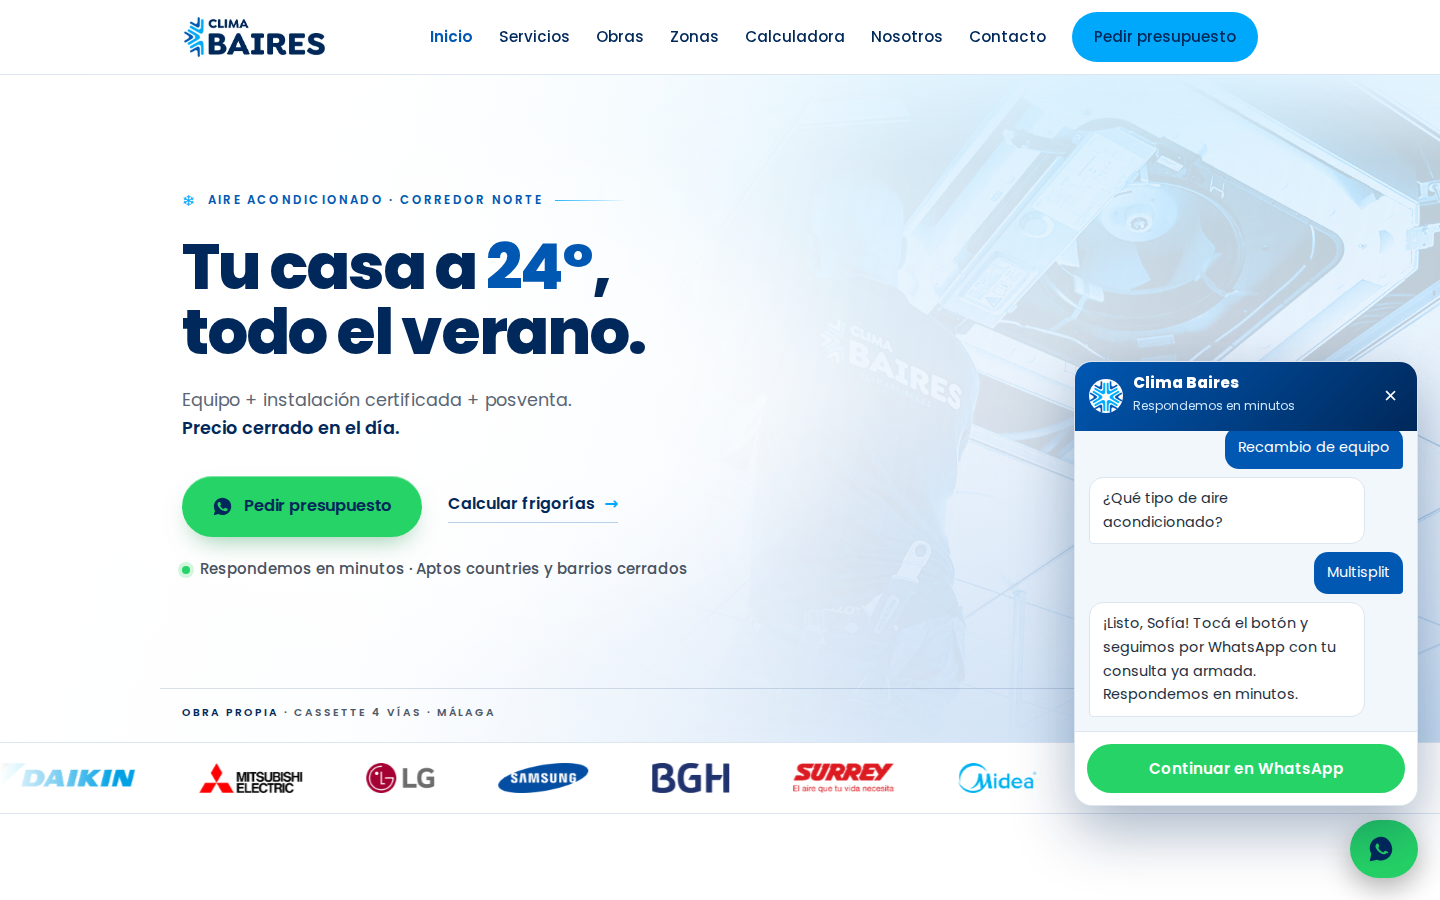
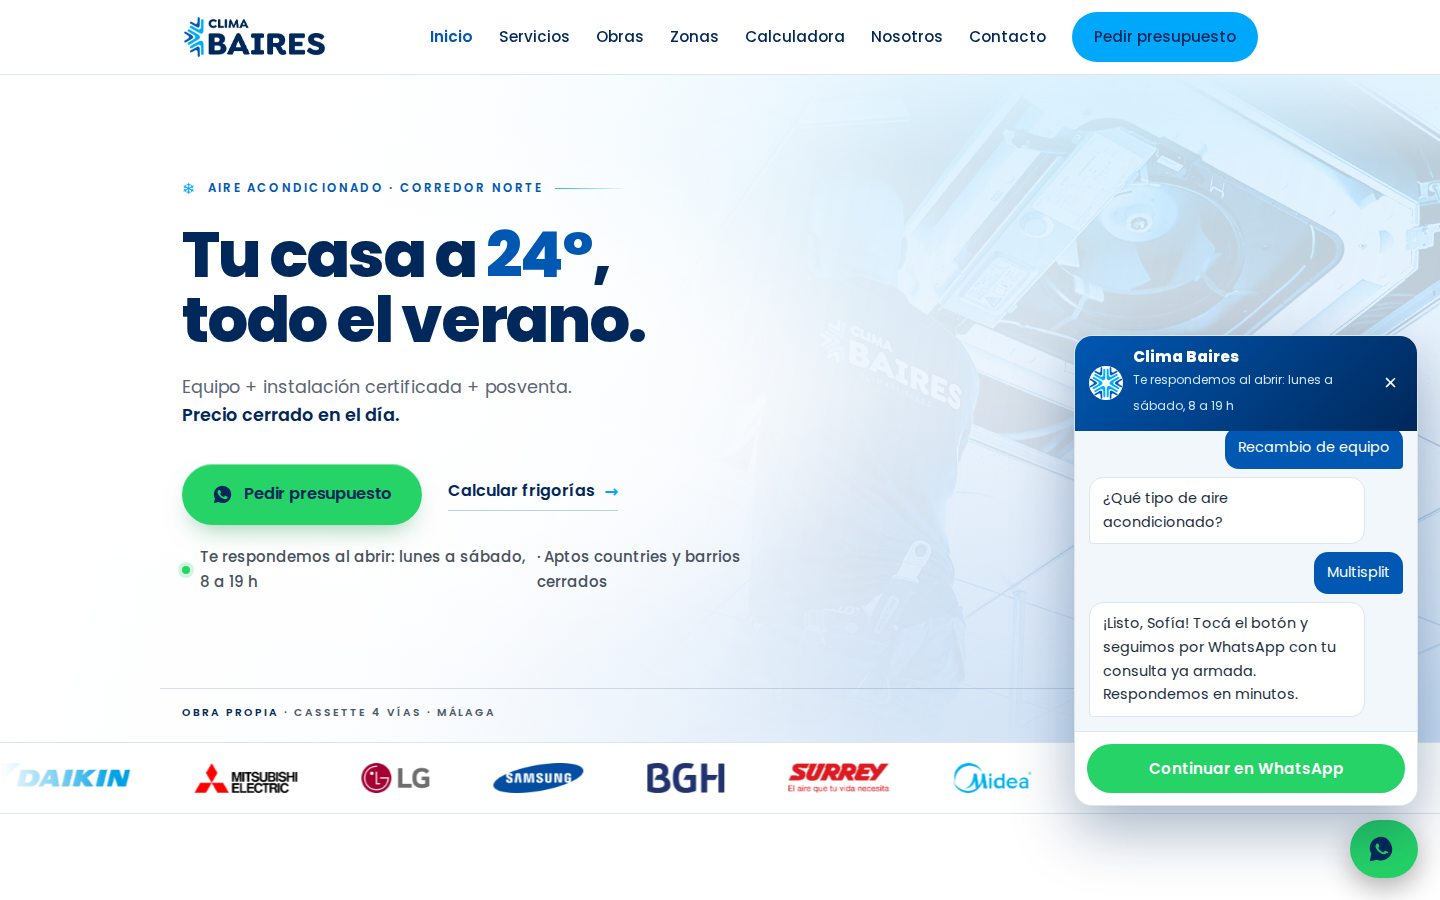
Dos promesas que el sitio no podía cumplir
- «Respondemos en minutos» se mostraba las 24 horas, incluso un domingo a las 3
  de la mañana, cuando se atiende de lunes a sábado de 8 a 19. Fuera de horario
  pasa a «Te respondemos al abrir: lunes a sábado, 8 a 19 h». Verificado con el
  reloj del navegador fijado en tres momentos distintos
- La home mostraba las fotos bajo «Trabajo real · Últimas obras» sin aclarar en
  ningún lado visible que son de la casa matriz: el origen sólo estaba en el alt
  de cada imagen. Ahora lo dice la bajada de la sección

Detectado por las auditorías legal y de contenido.

Claude-Session: https://claude.ai/code/session_01UMXhTey5vCobBk23QC6J6a

diff --git a/web/index.html b/web/index.html
@@ -52,7 +52,7 @@
         </a>
         <a class="hero-cta2" href="calculadora-frigorias.html">Calcular frigorías <span>→</span></a>
       </div>
-      <p class="hero-nota"><span class="hero-pulso" aria-hidden="true"></span>Respondemos en minutos · Aptos countries y barrios cerrados</p>
+      <p class="hero-nota"><span class="hero-pulso" aria-hidden="true"></span><span data-respuesta>Respondemos en minutos</span> · Aptos countries y barrios cerrados</p>
     </div>
   </div>
 
@@ -151,7 +151,8 @@
 
 <section class="seccion alterna" id="obras">
   <div class="contenedor">
-    <div class="centrado"><span class="kicker">Trabajo real</span><h2>Últimas obras</h2></div>
+    <div class="centrado"><span class="kicker">Trabajo real</span><h2>Últimas obras</h2>
+    <p class="intro">Obras de nuestro equipo en la casa matriz de Málaga. Las primeras del corredor norte se suman apenas las hagamos.</p></div>
   </div>
   <div class="obras-carrusel-marco">
     <button class="car-flecha car-prev" type="button" aria-label="Anteriores">‹</button>
@@ -231,7 +232,7 @@
 <div class="chat" id="chat" hidden role="dialog" aria-label="Asistente de Clima Baires">
   <div class="chat-cabecera">
     <img src="assets/img/avatar-chat.png" alt="" width="34" height="34" loading="lazy">
-    <div><strong>Clima Baires</strong><span>Respondemos en minutos</span></div>
+    <div><strong>Clima Baires</strong><span data-respuesta>Respondemos en minutos</span></div>
     <button class="chat-cerrar" type="button" aria-label="Cerrar chat">×</button>
   </div>
   <div class="chat-mensajes" id="chat-mensajes" aria-live="polite"></div>

diff --git a/web/assets/js/main.js b/web/assets/js/main.js
@@ -116,6 +116,16 @@ document.addEventListener('DOMContentLoaded', () => {
   const nav = document.querySelector('.nav');
   if (btn && nav) btn.addEventListener('click', () => nav.classList.toggle('abierta'));
 
+  // La promesa de respuesta se ajusta al horario real (lun a sáb, 8 a 19 h):
+  // prometer «en minutos» un domingo a la madrugada es una promesa que no se cumple
+  const ahora = new Date();
+  const enHorario = ahora.getDay() !== 0 && ahora.getHours() >= 8 && ahora.getHours() < 19;
+  if (!enHorario) {
+    document.querySelectorAll('[data-respuesta]').forEach((el) => {
+      el.textContent = 'Te respondemos al abrir: lunes a sábado, 8 a 19 h';
+    });
+  }
+
   // Año en el pie
   document.querySelectorAll('[data-anio]').forEach((el) => { el.textContent = new Date().getFullYear(); });
 

diff --git a/web/zonas/nordelta.html b/web/zonas/nordelta.html
@@ -155,7 +155,7 @@
 <div class="chat" id="chat" hidden role="dialog" aria-label="Asistente de Clima Baires">
   <div class="chat-cabecera">
     <img src="../assets/img/avatar-chat.png" alt="" width="34" height="34" loading="lazy">
-    <div><strong>Clima Baires</strong><span>Respondemos en minutos</span></div>
+    <div><strong>Clima Baires</strong><span data-respuesta>Respondemos en minutos</span></div>
     <button class="chat-cerrar" type="button" aria-label="Cerrar chat">×</button>
   </div>
   <div class="chat-mensajes" id="chat-mensajes" aria-live="polite"></div>

diff --git a/web/zonas/nunez.html b/web/zonas/nunez.html
@@ -155,7 +155,7 @@
 <div class="chat" id="chat" hidden role="dialog" aria-label="Asistente de Clima Baires">
   <div class="chat-cabecera">
     <img src="../assets/img/avatar-chat.png" alt="" width="34" height="34" loading="lazy">
-    <div><strong>Clima Baires</strong><span>Respondemos en minutos</span></div>
+    <div><strong>Clima Baires</strong><span data-respuesta>Respondemos en minutos</span></div>
     <button class="chat-cerrar" type="button" aria-label="Cerrar chat">×</button>
   </div>
   <div class="chat-mensajes" id="chat-mensajes" aria-live="polite"></div>

diff --git a/web/zonas/pilar.html b/web/zonas/pilar.html
@@ -155,7 +155,7 @@
 <div class="chat" id="chat" hidden role="dialog" aria-label="Asistente de Clima Baires">
   <div class="chat-cabecera">
     <img src="../assets/img/avatar-chat.png" alt="" width="34" height="34" loading="lazy">
-    <div><strong>Clima Baires</strong><span>Respondemos en minutos</span></div>
+    <div><strong>Clima Baires</strong><span data-respuesta>Respondemos en minutos</span></div>
     <button class="chat-cerrar" type="button" aria-label="Cerrar chat">×</button>
   </div>
   <div class="chat-mensajes" id="chat-mensajes" aria-live="polite"></div>

diff --git a/web/zonas/san-isidro.html b/web/zonas/san-isidro.html
@@ -155,7 +155,7 @@
 <div class="chat" id="chat" hidden role="dialog" aria-label="Asistente de Clima Baires">
   <div class="chat-cabecera">
     <img src="../assets/img/avatar-chat.png" alt="" width="34" height="34" loading="lazy">
-    <div><strong>Clima Baires</strong><span>Respondemos en minutos</span></div>
+    <div><strong>Clima Baires</strong><span data-respuesta>Respondemos en minutos</span></div>
     <button class="chat-cerrar" type="button" aria-label="Cerrar chat">×</button>
   </div>
   <div class="chat-mensajes" id="chat-mensajes" aria-live="polite"></div>

diff --git a/web/zonas/tigre.html b/web/zonas/tigre.html
@@ -155,7 +155,7 @@
 <div class="chat" id="chat" hidden role="dialog" aria-label="Asistente de Clima Baires">
   <div class="chat-cabecera">
     <img src="../assets/img/avatar-chat.png" alt="" width="34" height="34" loading="lazy">
-    <div><strong>Clima Baires</strong><span>Respondemos en minutos</span></div>
+    <div><strong>Clima Baires</strong><span data-respuesta>Respondemos en minutos</span></div>
     <button class="chat-cerrar" type="button" aria-label="Cerrar chat">×</button>
   </div>
   <div class="chat-mensajes" id="chat-mensajes" aria-live="polite"></div>

diff --git a/web/zonas/vicente-lopez.html b/web/zonas/vicente-lopez.html
@@ -155,7 +155,7 @@
 <div class="chat" id="chat" hidden role="dialog" aria-label="Asistente de Clima Baires">
   <div class="chat-cabecera">
     <img src="../assets/img/avatar-chat.png" alt="" width="34" height="34" loading="lazy">
-    <div><strong>Clima Baires</strong><span>Respondemos en minutos</span></div>
+    <div><strong>Clima Baires</strong><span data-respuesta>Respondemos en minutos</span></div>
     <button class="chat-cerrar" type="button" aria-label="Cerrar chat">×</button>
   </div>
   <div class="chat-mensajes" id="chat-mensajes" aria-live="polite"></div>

diff --git a/web/404.html b/web/404.html
@@ -106,7 +106,7 @@
 <div class="chat" id="chat" hidden role="dialog" aria-label="Asistente de Clima Baires">
   <div class="chat-cabecera">
     <img src="assets/img/avatar-chat.png" alt="" width="34" height="34" loading="lazy">
-    <div><strong>Clima Baires</strong><span>Respondemos en minutos</span></div>
+    <div><strong>Clima Baires</strong><span data-respuesta>Respondemos en minutos</span></div>
     <button class="chat-cerrar" type="button" aria-label="Cerrar chat">×</button>
   </div>
   <div class="chat-mensajes" id="chat-mensajes" aria-live="polite"></div>

diff --git a/web/calculadora-frigorias.html b/web/calculadora-frigorias.html
@@ -169,7 +169,7 @@
 <div class="chat" id="chat" hidden role="dialog" aria-label="Asistente de Clima Baires">
   <div class="chat-cabecera">
     <img src="assets/img/avatar-chat.png" alt="" width="34" height="34" loading="lazy">
-    <div><strong>Clima Baires</strong><span>Respondemos en minutos</span></div>
+    <div><strong>Clima Baires</strong><span data-respuesta>Respondemos en minutos</span></div>
     <button class="chat-cerrar" type="button" aria-label="Cerrar chat">×</button>
   </div>
   <div class="chat-mensajes" id="chat-mensajes" aria-live="polite"></div>

diff --git a/web/contacto.html b/web/contacto.html
@@ -147,7 +147,7 @@
 <div class="chat" id="chat" hidden role="dialog" aria-label="Asistente de Clima Baires">
   <div class="chat-cabecera">
     <img src="assets/img/avatar-chat.png" alt="" width="34" height="34" loading="lazy">
-    <div><strong>Clima Baires</strong><span>Respondemos en minutos</span></div>
+    <div><strong>Clima Baires</strong><span data-respuesta>Respondemos en minutos</span></div>
     <button class="chat-cerrar" type="button" aria-label="Cerrar chat">×</button>
   </div>
   <div class="chat-mensajes" id="chat-mensajes" aria-live="polite"></div>

diff --git a/web/obras.html b/web/obras.html
@@ -238,7 +238,7 @@
 <div class="chat" id="chat" hidden role="dialog" aria-label="Asistente de Clima Baires">
   <div class="chat-cabecera">
     <img src="assets/img/avatar-chat.png" alt="" width="34" height="34" loading="lazy">
-    <div><strong>Clima Baires</strong><span>Respondemos en minutos</span></div>
+    <div><strong>Clima Baires</strong><span data-respuesta>Respondemos en minutos</span></div>
     <button class="chat-cerrar" type="button" aria-label="Cerrar chat">×</button>
   </div>
   <div class="chat-mensajes" id="chat-mensajes" aria-live="polite"></div>
